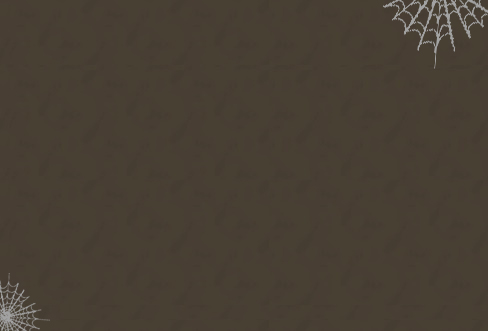
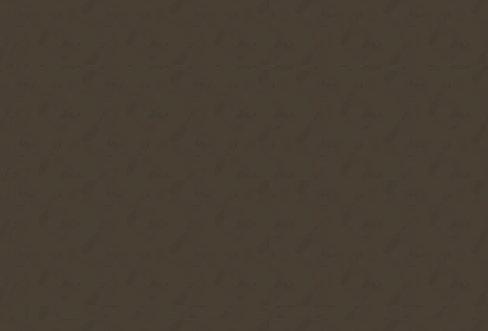
Revert hween event (#981)

Changed region(s): [[0.7684, 0.0, 1.0, 0.1511], [0.0, 0.8459, 0.0922, 1.0]]

diff --git a/src/tasks/minions/monsterActivity.ts b/src/tasks/minions/monsterActivity.ts
@@ -1,6 +1,5 @@
 import { MessageAttachment } from 'discord.js';
 import { KlasaMessage, Task } from 'klasa';
-import { Monsters } from 'oldschooljs';
 
 import MinionCommand from '../../commands/Minion/minion';
 import { continuationChars, Emoji, Events, PerkTier, Time } from '../../lib/constants';
@@ -12,7 +11,6 @@ import { MonsterActivityTaskOptions } from '../../lib/types/minions';
 import { randomItemFromArray } from '../../lib/util';
 import { channelIsSendable } from '../../lib/util/channelIsSendable';
 import getUsersPerkTier from '../../lib/util/getUsersPerkTier';
-import resolveItems from '../../lib/util/resolveItems';
 
 export default class extends Task {
 	async run({ monsterID, userID, channelID, quantity, duration }: MonsterActivityTaskOptions) {
@@ -25,27 +23,6 @@ export default class extends Task {
 
 		const loot = monster.table.kill(quantity);
 
-		if (monster.id === Monsters.Skeleton.id) {
-			const skeletonOutfitPieces = resolveItems([
-				'Skeleton mask',
-				'Skeleton shirt',
-				'Skeleton leggings',
-				'Skeleton gloves',
-				'Skeleton boots'
-			]);
-			const notReceived = skeletonOutfitPieces.filter(
-				piece => !user.hasItemEquippedOrInBank(piece)
-			);
-
-			if (notReceived.length > 0) {
-				let given = 0;
-				for (const piece of notReceived) {
-					if (duration / Time.Minute < 29 && given === 2) break;
-					given++;
-					loot[piece] = 1;
-				}
-			}
-		}
 		announceLoot(this.client, user, monster, quantity, loot);
 
 		await user.addItemsToBank(loot, true);

diff --git a/src/lib/types/minions.ts b/src/lib/types/minions.ts
@@ -94,8 +94,6 @@ export interface MinigameActivityTaskOptions extends ActivityTaskOptions {
 	quantity: number;
 }
 
-export interface TrickTreatActivityTaskOptions extends MinigameActivityTaskOptions {}
-
 export interface FishingTrawlerActivityTaskOptions extends MinigameActivityTaskOptions {}
 
 export interface FightCavesActivityTaskOptions extends MinigameActivityTaskOptions {
@@ -145,7 +143,6 @@ export interface MinigameTickerTaskData {
 		| WintertodtActivityTaskOptions
 		| NightmareActivityTaskOptions
 		| SepulchreActivityTaskOptions
-		| TrickTreatActivityTaskOptions
 		| FishingTrawlerActivityTaskOptions
 	)[];
 }

diff --git a/src/extendables/User/Minion.ts b/src/extendables/User/Minion.ts
@@ -305,10 +305,6 @@ export default class extends Extendable {
 				return `${this.minionName} is currently doing ${data.quantity}x laps of the Hallowed Sepulchre. ${formattedDuration}`;
 			}
 
-			case Activity.TrickTreat: {
-				return `<:Pumpkin:764130154662199347> ${this.minionName} is currently Trick or Treating around Misthalin! ${formattedDuration}`;
-			}
-
 			case Activity.FishingTrawler: {
 				const data = currentTask as FishingTrawlerActivityTaskOptions;
 				return `${this.minionName} is currently aboard the Fishing Trawler, doing ${data.quantity}x trips. ${formattedDuration}`;

diff --git a/src/lib/constants.ts b/src/lib/constants.ts
@@ -115,7 +115,6 @@ export const enum Tasks {
 	AlchingActivity = 'alchingActivity',
 	NightmareActivity = 'nightmareActivity',
 	SepulchreActivity = 'sepulchreActivity',
-	TrickTreatActivity = 'trickTreatActivity',
 	FishingTrawler = 'trawlerActivity',
 	ZalcanoActivity = 'zalcanoActivity',
 	SawmillActivity = 'sawmillActivity',
@@ -150,7 +149,6 @@ export const enum Activity {
 	Sawmill = 'Sawmill',
 	Nightmare = 'Nightmare',
 	Sepulchre = 'Sepulchre',
-	TrickTreat = 'TrickTreat',
 	FishingTrawler = 'FishingTrawler',
 	Zalcano = 'Zalcano'
 }

diff --git a/src/lib/image/chatHeadImage.ts b/src/lib/image/chatHeadImage.ts
@@ -6,11 +6,9 @@ registerFont('./src/lib/resources/osrs-font-quill-8.ttf', { family: 'Regular' })
 
 const textBoxFile = fs.readFileSync('./src/lib/resources/images/textbox.png');
 const mejJalChatHead = fs.readFileSync('./src/lib/resources/images/mejJal.png');
-const deathChatHead = fs.readFileSync('./src/lib/resources/images/death.png');
 
 const chatHeads = {
-	mejJal: mejJalChatHead,
-	death: deathChatHead
+	mejJal: mejJalChatHead
 };
 
 export default function chatHeadImage({

diff --git a/src/lib/util/taskNameFromType.ts b/src/lib/util/taskNameFromType.ts
@@ -48,8 +48,6 @@ export function taskNameFromType(activityType: Activity) {
 			return Tasks.SawmillActivity;
 		case Activity.Sepulchre:
 			return Tasks.SepulchreActivity;
-		case Activity.TrickTreat:
-			return Tasks.TrickTreatActivity;
 		case Activity.FishingTrawler:
 			return Tasks.FishingTrawler;
 		case Activity.Zalcano:

diff --git a/src/lib/minions/functions/tickerTaskFromActivity.ts b/src/lib/minions/functions/tickerTaskFromActivity.ts
@@ -32,7 +32,6 @@ export function tickerTaskFromActivity(type: Activity): Tasks {
 		case Activity.Wintertodt:
 		case Activity.Nightmare:
 		case Activity.Sepulchre:
-		case Activity.TrickTreat:
 		case Activity.Zalcano:
 		case Activity.FishingTrawler:
 			return Tasks.MinigameTicker;

diff --git a/src/lib/createables.ts b/src/lib/createables.ts
@@ -823,17 +823,6 @@ const Createables: Createable[] = [
 		}),
 		noCl: true
 	},
-	{
-		name: 'Scythe',
-		inputItems: resolveNameBank({
-			'Steel bar': 1,
-			Logs: 1
-		}),
-		outputItems: resolveNameBank({
-			Scythe: 1
-		}),
-		cantBeInCL: true
-	},
 	...crystalTools
 ];
 
